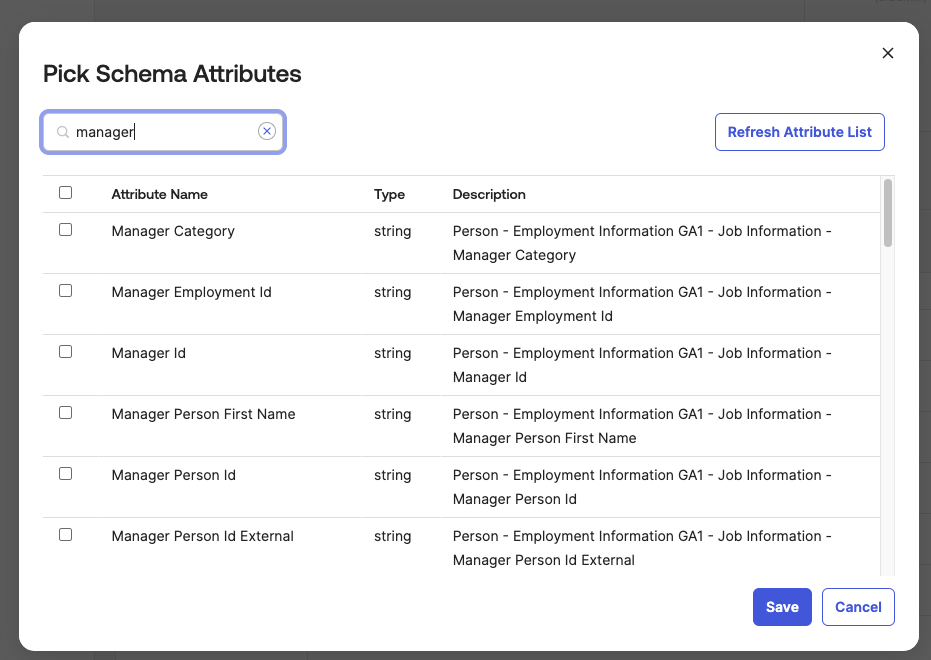
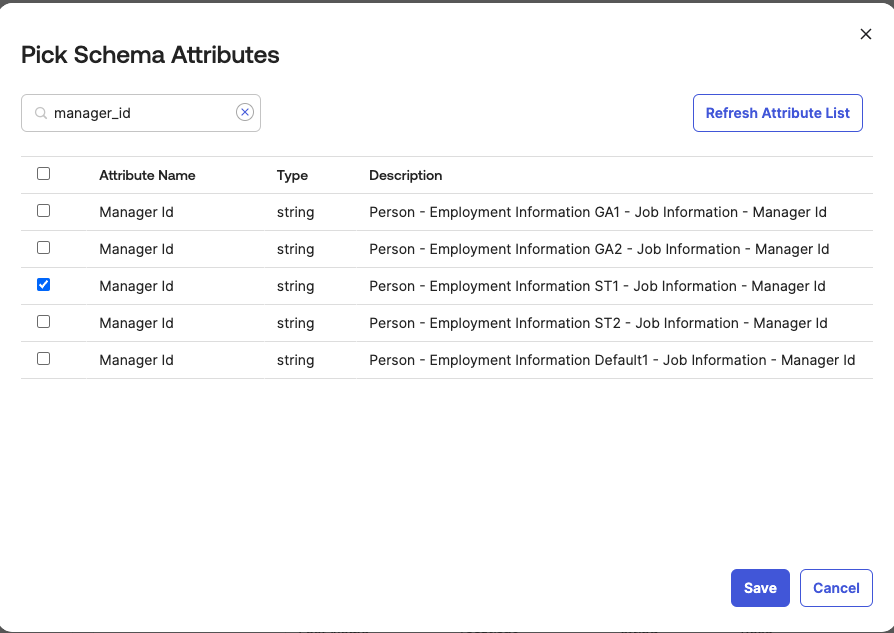
SAP
SAP

diff --git a/003-successfactors.md b/003-successfactors.md
@@ -3,13 +3,13 @@
 **Overview**
 
 This guide provides instructions for integrating Okta with SAP Success Factors so that the following use cases can be demonstrated:
-HRaaS - Sourcing a user profile from SAP Success Factors into Universal Directory.
+HRaaS - Sourcing a user profile from SAP Success Factors into Okta's Universal Directory.
 
 This lab uses a pre-built and managed instance of SAP Success Factors. The environment has users and groups defined in a pre-designed organisational structure. The integration uses an API connection to import users from SAP Success Factors into Okta’s Universal Directory.
 
 Okta maintains a specific integration for SAP Success Factors in the Okta Integration Network (OIN). To add this to your Okta org, follow these steps:
 
-1.  Open the admin console of your Okta demo org by clicking on the **Launch** button at the top left of this lab
+1.  Login to the admin console of your Okta demo org by clicking on the **Launch** button at the top left of this lab
 
 2.  Navigate to **Applications \> Applications** then click on **Browse App Catalog**
    
@@ -31,11 +31,11 @@ Company ID = SFPART068962
 
 ```
 
-7. Select **SAML 2.0** then click on **Done**.
+1. Select **SAML 2.0** then click **Done**.
 
    ![alt_text](https://raw.githubusercontent.com/NicolasMiramon/LabGuide/main/images/010/image09.png "image_tooltip")
 
-8. Now you need to configure the provisioning in order to push users from SAP to Okta.
+2. Now you need to configure the provisioning in order to push users from SAP to Okta.
    
    Go to the **Provisioning** tab, click on **Configure API Integration**, click on **Enable API Integration**, enter the base URL, admin username and admin password (you can find them below) then click on **Test API Credentials**. If the test result is green, click on **Save**
    
@@ -86,21 +86,32 @@ LastName:
 String.len(String.removeSpaces(appuser.lastName)) > 0 ? appuser.lastName : "L_" + appuser.userName
 ```
 
-10.   You are now ready to import the users from SAP to Okta. The import can be scheduled automatically, however we prefer to do it manually in this lab in order to see this step. Go to the **Import** tab, click on **Import Now**, select **Full import** then click on **Import**.
+10. **Optional** The manager attribute is not mapped to an Okta attribute by default, here are the steps to mapp it:
+   - in the left menu, go to **Directory** > **Profile Editor**
+   - click on the app **SuccessFactors**
+   - click on **Add Attribute**, search for **manager_id**, select the **ST1** attribute and click on **Save**
+      ![alt_text](https://raw.githubusercontent.com/NicolasMiramon/LabGuide/main/images/010/image20.png "image_tooltip")
+   - Go back to **Profile Editor**, click on **Mappings** next to the app **SuccessFactors**
+   - In the tab **SuccessFactors to Okta User**, scroll down until you see the attribute **managerId**, search for manager, select the attribute you have added earlier then click on **Save Mappings**
+      ![alt_text](https://raw.githubusercontent.com/NicolasMiramon/LabGuide/main/images/010/image22.png "image_tooltip")
+   
+
+11.   You are now ready to import the users from SAP to Okta. The import can be scheduled automatically, however we prefer to do it manually in this lab in order to see this step. Go to the **Import** tab, click on **Import Now**, select **Full import** then click on **Import**. This step will take around 5min as the connector will have to import around 1300 users the first time, it will be so much quicker afterwards.
 
    ![alt_text](https://raw.githubusercontent.com/NicolasMiramon/LabGuide/main/images/010/image18.png "image_tooltip")
 
    ![alt_text](https://raw.githubusercontent.com/NicolasMiramon/LabGuide/main/images/010/image19.png "image_tooltip")
 
-11.  Users have been imported into Okta but not confirmed yet, this is an extra step that can be skipped if needed. For the purpose of this lab, we kept it manual.
+12.  Users have been imported into Okta but not confirmed yet, this is an extra step that can be skipped if needed. For the purpose of this lab, we kept it manual.
 
-   We will confirm the import of "Emily Boone".
+      We will confirm the import of **Emily Boone**.
 
-   In the import page, type **emily** in the search bar, select **Emimy Boone** then click on **Confirm Assignements**. 
+      In the import page, type **emily** in the search bar, select **Emimy Boone** then click on **Confirm Assignements**. 
 
-   Click on **Auto-activate users after confirmation** then on **Confirm**
+      Click on **Auto-activate users after confirmation** then on **Confirm**
 
-   The user Emily has been imported into Okta.
+      The user Emily has been imported into Okta.
+      Do the same thing for user **Wes Chang** who is the manager of Emily
 
    ![alt_text](https://raw.githubusercontent.com/NicolasMiramon/LabGuide/main/images/010/image24.png "image_tooltip")
 
